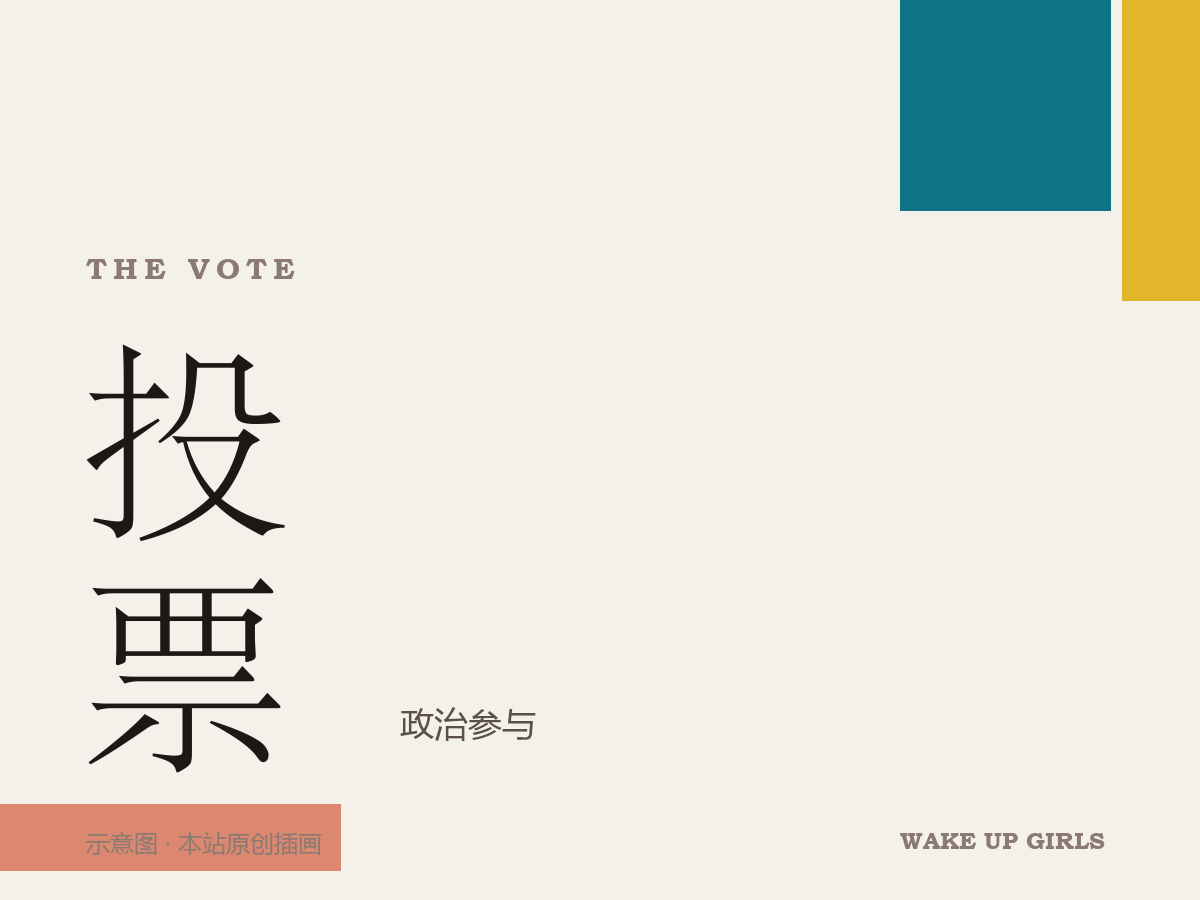
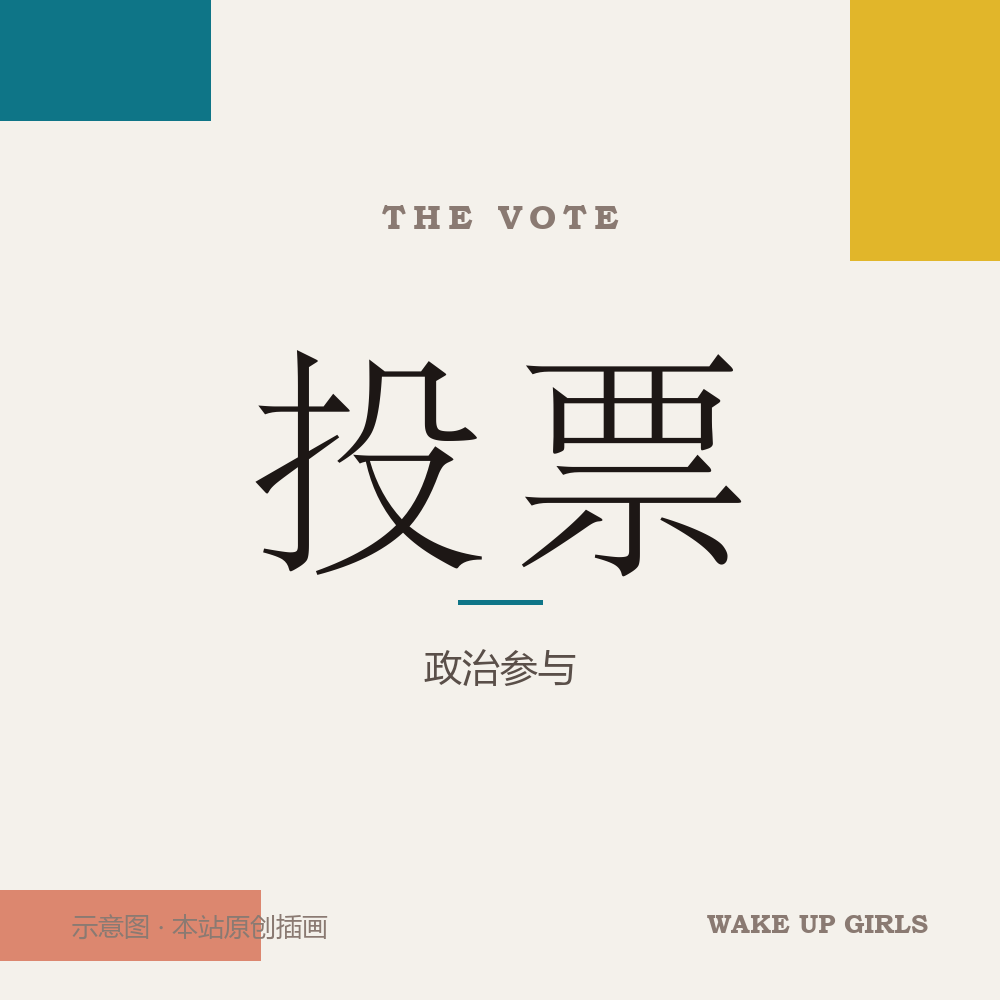
style(images): 6 张原创主题图改为 1000x1000 居中构图，避免被画框/配图裁切时丢失主体

diff --git a/tools/make_images.py b/tools/make_images.py
@@ -63,32 +63,42 @@ BLOCK_SETS = [
 
 
 def make_topic(fname, chars, en, sub, blocks):
-    W, H = 1200, 900
+    """正方形 1000x1000、构图居中：同一张图被裁成 4:5 / 16:9 / 1:1 都不会丢主体。"""
+    W = H = 1000
     im = Image.new('RGB', (W, H), WALL)
     d = ImageDraw.Draw(im)
 
-    # 色块构图（右上两个、左下一条）
-    d.rectangle([W - 300, 0, W - 90, 210], fill=blocks[0])
-    d.rectangle([W - 78, 0, W, 300], fill=blocks[1])
-    d.rectangle([0, H - 96, 340, H - 30], fill=blocks[2])
+    # 四角色块（裁切时只损失边角，不影响主体）
+    d.rectangle([0, 0, 210, 120], fill=blocks[0])
+    d.rectangle([W - 150, 0, W, 260], fill=blocks[1])
+    d.rectangle([0, H - 110, 260, H - 40], fill=blocks[2])
 
-    # 英文小标签
-    f_en = font(SERIF_EN_B, 30)
-    draw_tracked(d, (86, 250), en, f_en, INK_3, spacing=6)
+    # 英文小标签（居中上方）
+    f_en = font(SERIF_EN_B, 34)
+    w_en = text_w(d, en, f_en, 7)
+    draw_tracked(d, ((W - w_en) / 2, 196), en, f_en, INK_3, spacing=7)
 
-    # 中文大字（竖排式两字，主视觉）
-    f_cn = font(SERIF_CN_B, 210)
-    for i, ch in enumerate(chars):
-        d.text((80, 300 + i * 230), ch, font=f_cn, fill=INK)
+    # 中文大字：两字并排居中，主视觉居中
+    f_cn = font(SERIF_CN_B, 240)
+    cw = d.textlength(chars[0], font=f_cn)
+    gap = 24
+    total = cw * len(chars) + gap * (len(chars) - 1)
+    x = (W - total) / 2
+    for ch in chars:
+        d.text((x, 300), ch, font=f_cn, fill=INK)
+        x += cw + gap
 
-    # 主题说明
-    f_sub = font(SANS_CN, 34)
-    d.text((400, 700), sub, font=f_sub, fill=(90, 79, 73))
+    # 中央细线 + 主题说明
+    d.rectangle([W / 2 - 42, 600, W / 2 + 42, 604], fill=blocks[0])
+    f_sub = font(SANS_CN, 38)
+    w_sub = d.textlength(sub, font=f_sub)
+    d.text(((W - w_sub) / 2, 640), sub, font=f_sub, fill=(90, 79, 73))
 
-    # 页脚标记
-    f_foot = font(SANS_CN, 24)
-    d.text((86, H - 74), '示意图 · 本站原创插画', font=f_foot, fill=INK_3)
-    d.text((W - 300, H - 74), 'WAKE UP GIRLS', font=font(SERIF_EN_B, 24), fill=INK_3)
+    # 页脚
+    f_foot = font(SANS_CN, 26)
+    d.text((72, H - 92), '示意图 · 本站原创插画', font=f_foot, fill=INK_3)
+    f_mark = font(SERIF_EN_B, 26)
+    d.text((W - 72 - text_w(d, 'WAKE UP GIRLS', f_mark), H - 92), 'WAKE UP GIRLS', font=f_mark, fill=INK_3)
 
     out = os.path.join(IMG, fname)
     im.save(out, 'PNG', optimize=True)
